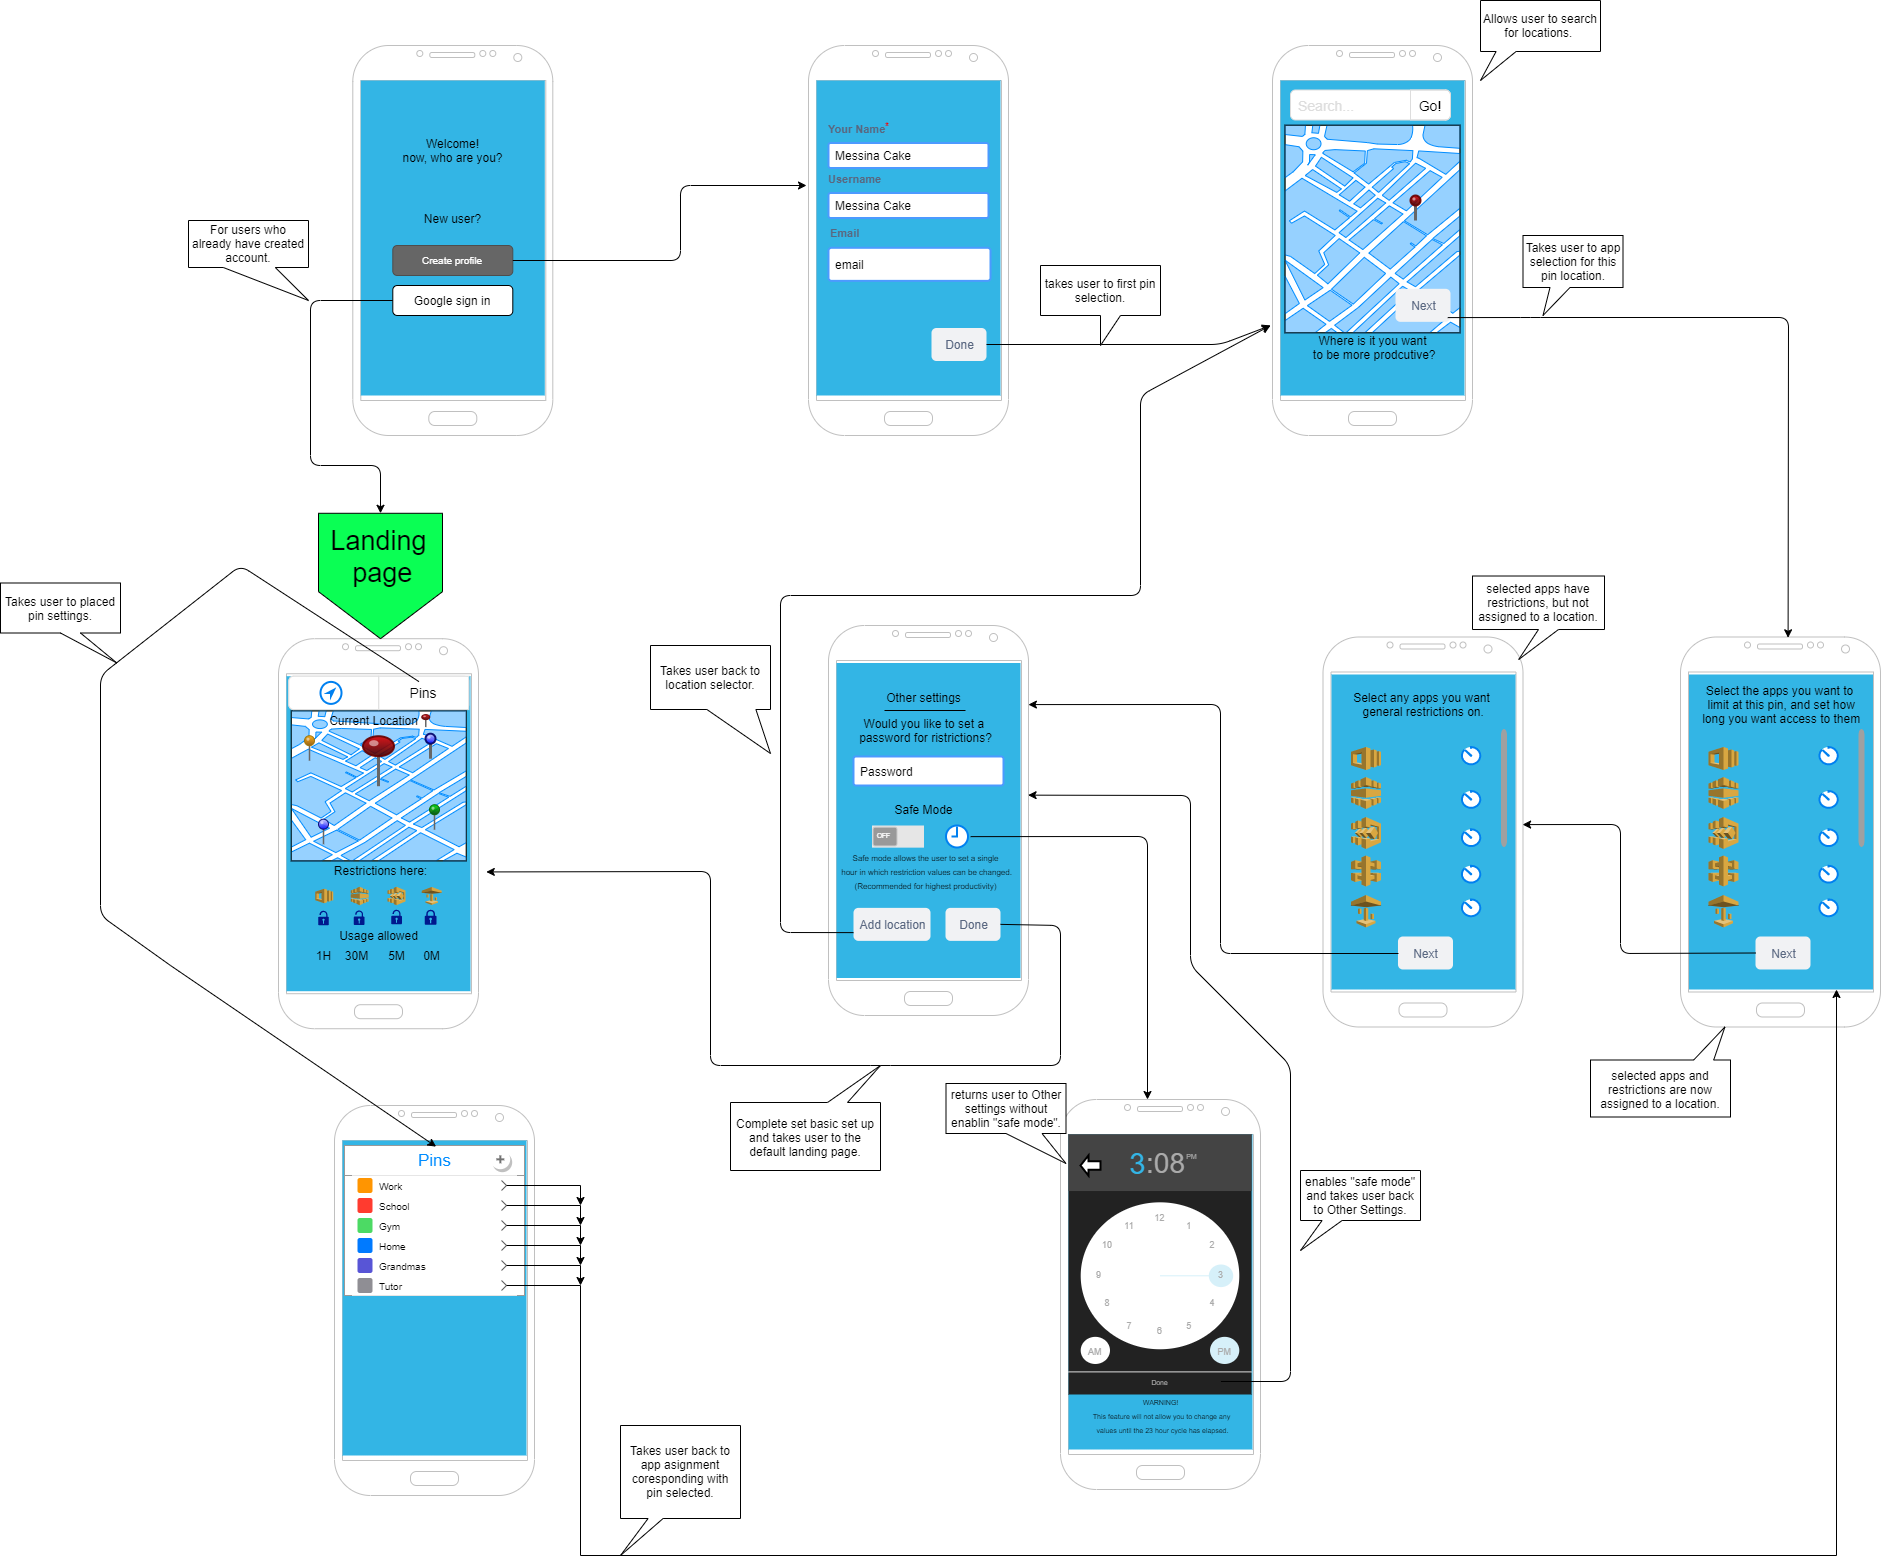
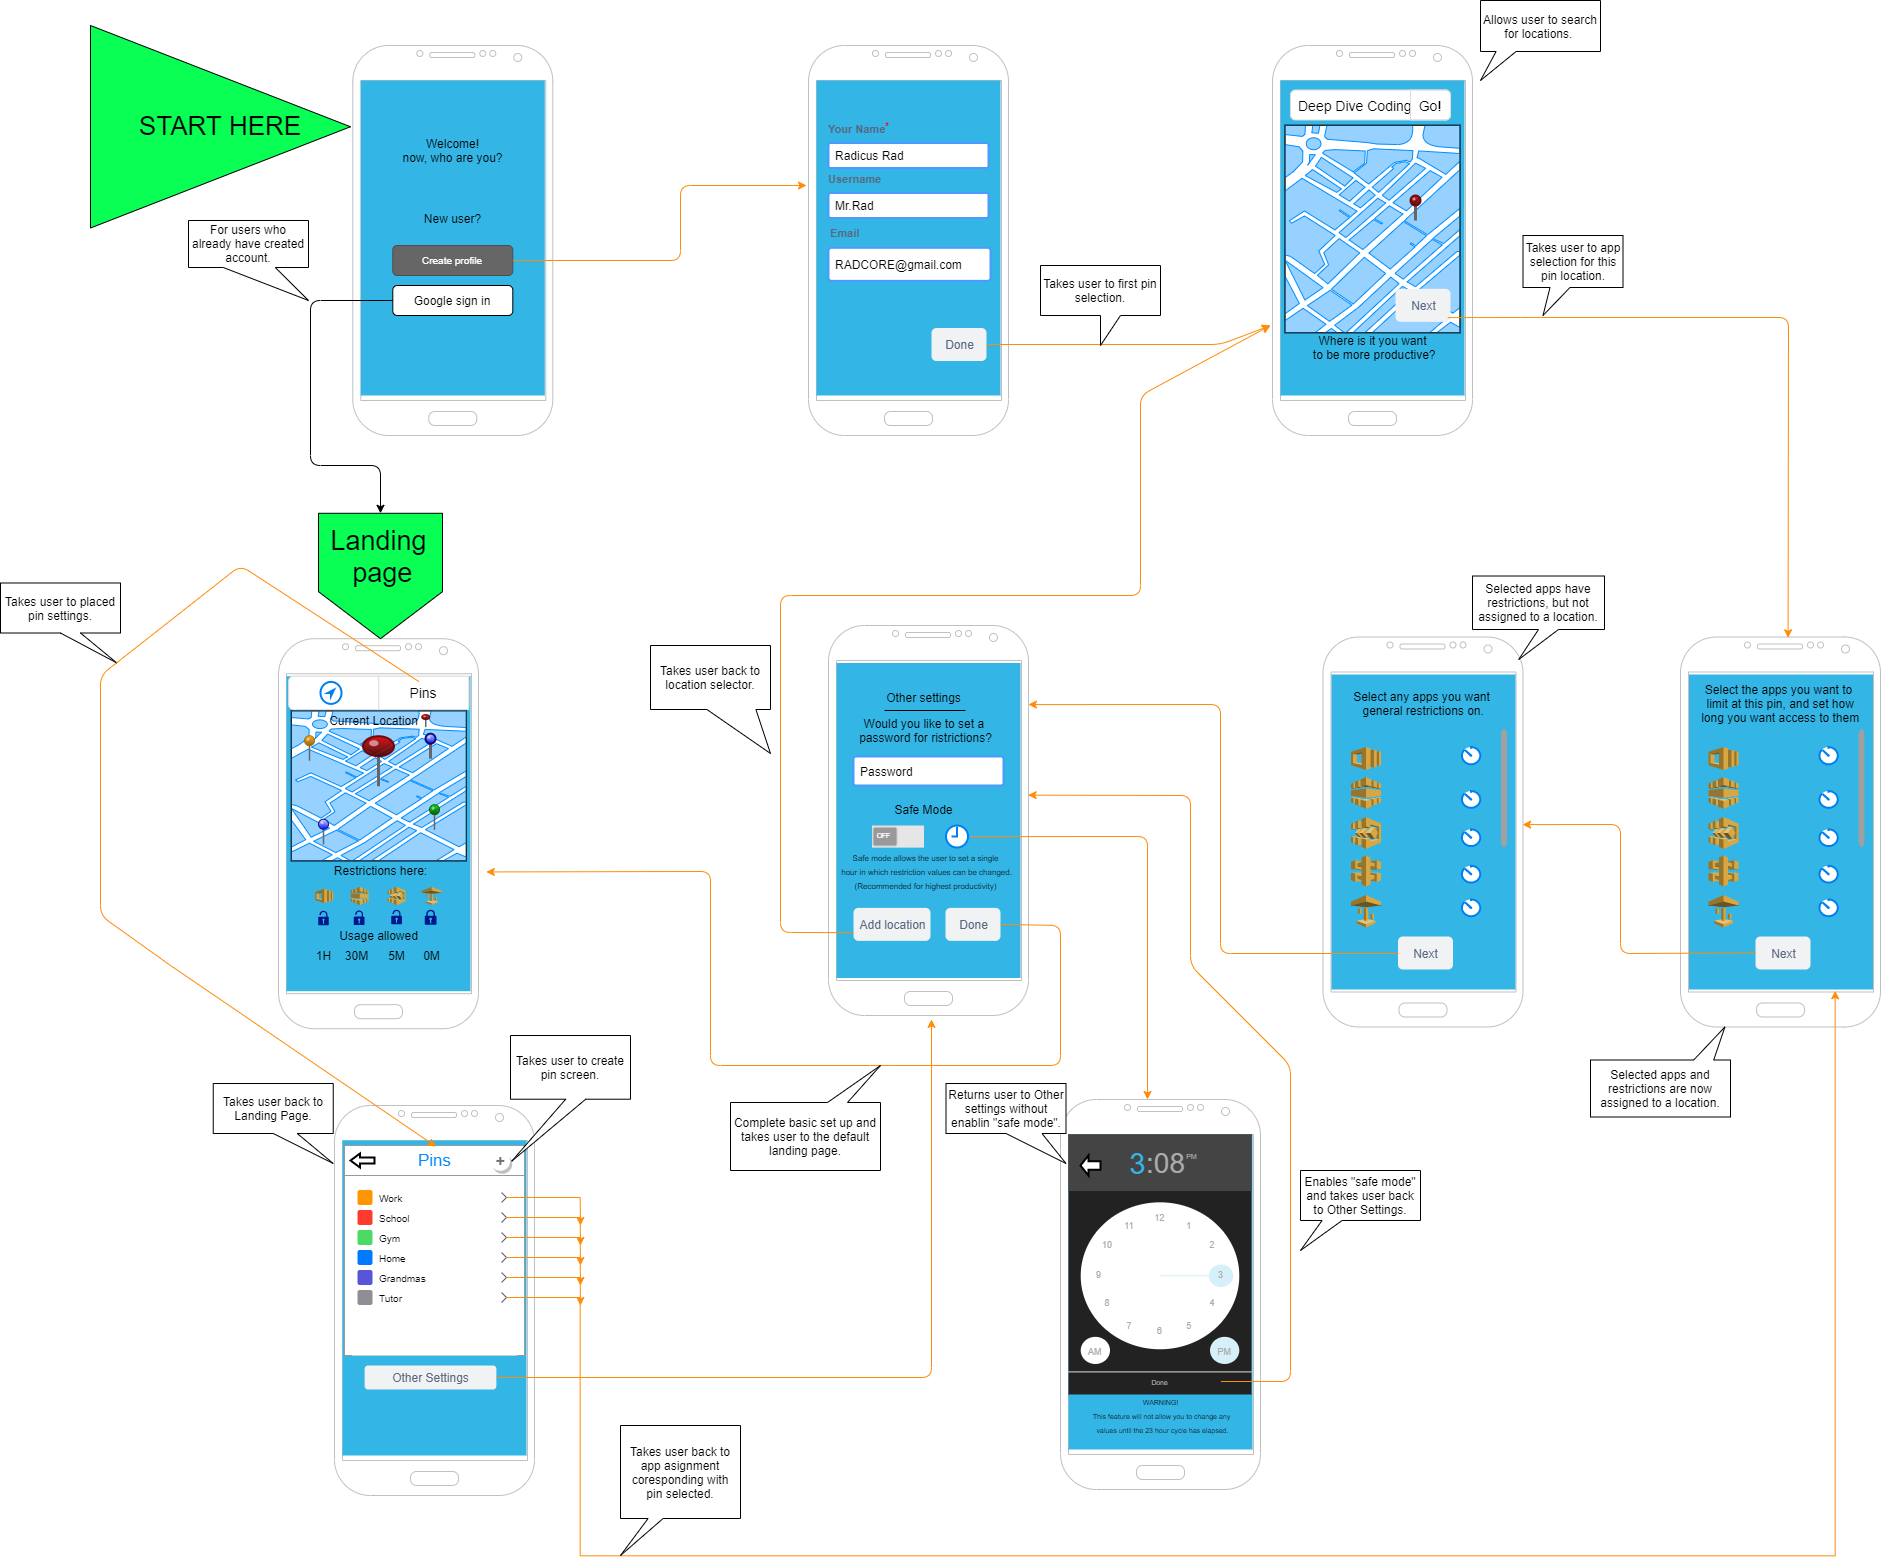
changed arrow color for higher cotrast. updated read me

diff --git a/docs/README.md b/docs/README.md
@@ -1,7 +1,7 @@
 ## Overview
 
 ## Description
-_Nowadays, cellphones and technology are a huge part of daily life. But it can be easy to get carried away and lose focus of the task at hand. This is an app that can monitor app usage while the user is at places like school, work, the gym, or even at home too._
+_Nowadays, cellphones and technology are a huge part of daily life. But it can be easy to get carried away and lose focus of the task at hand. This app can monitor app usage at locations marked by pins on a map, and time limits may be set for specific apps, at specific locations. Productivity is the goal, not limitation. This app will help you increase productivity, decrease device usage as distractions from work or school, and leave enough time for games and social media elsewhere._
 
 ## Key Features
 
@@ -20,9 +20,10 @@ _Nowadays, cellphones and technology are a huge part of daily life. But it can b
 * Device to device connection for superuser control(sorry kids).
 
 ## Intended Users
+
 _This app would be for:_
 
-* People who want to increase their daily productivity by limiting device usage in places they maybe shouldn't be using them.
+* People who want to increase their daily productivity by limiting device usage in places where more focus is required.
 
 * Parents wanting to monitor and limit their kids device usage at school but maybe not at home.  
 
